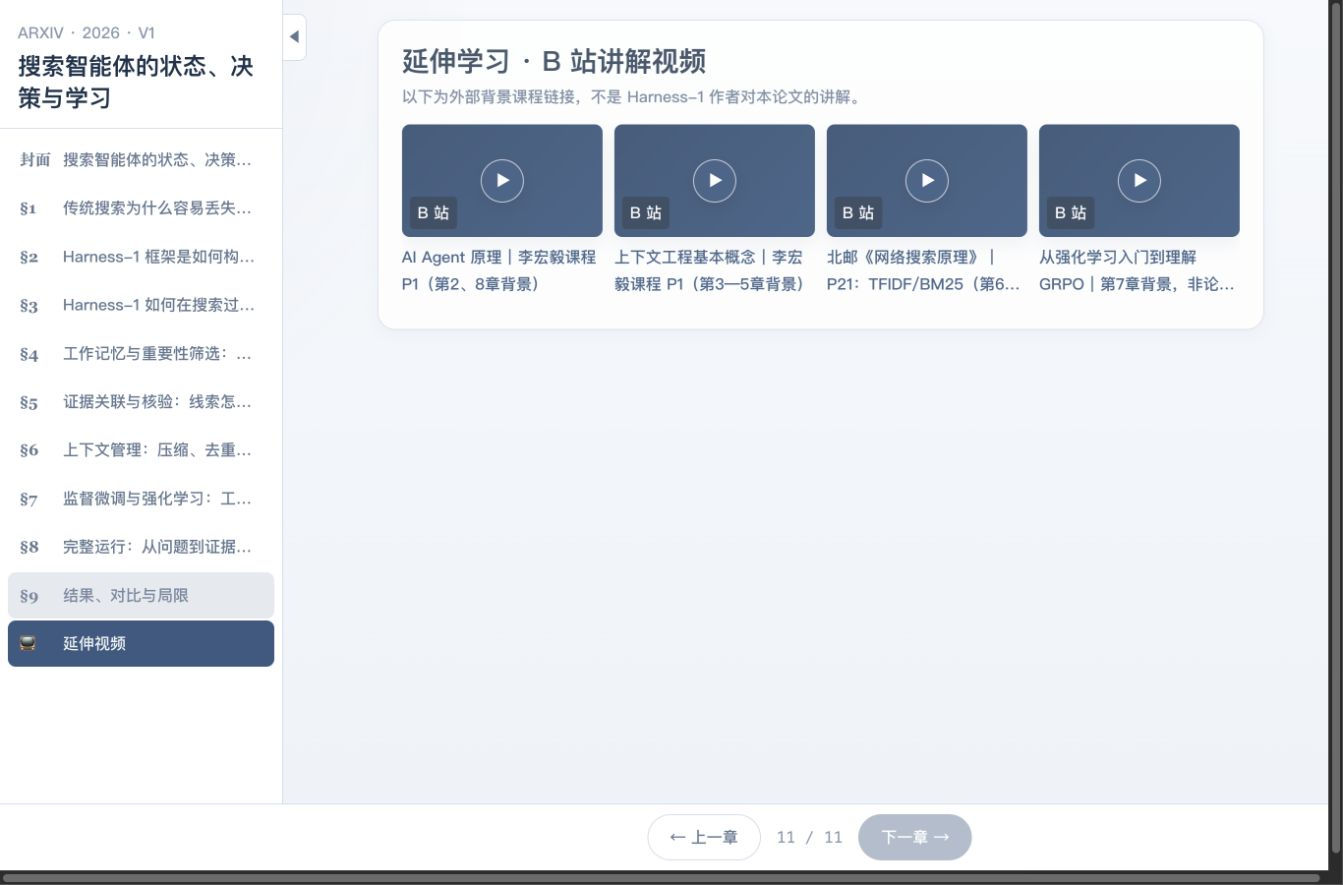
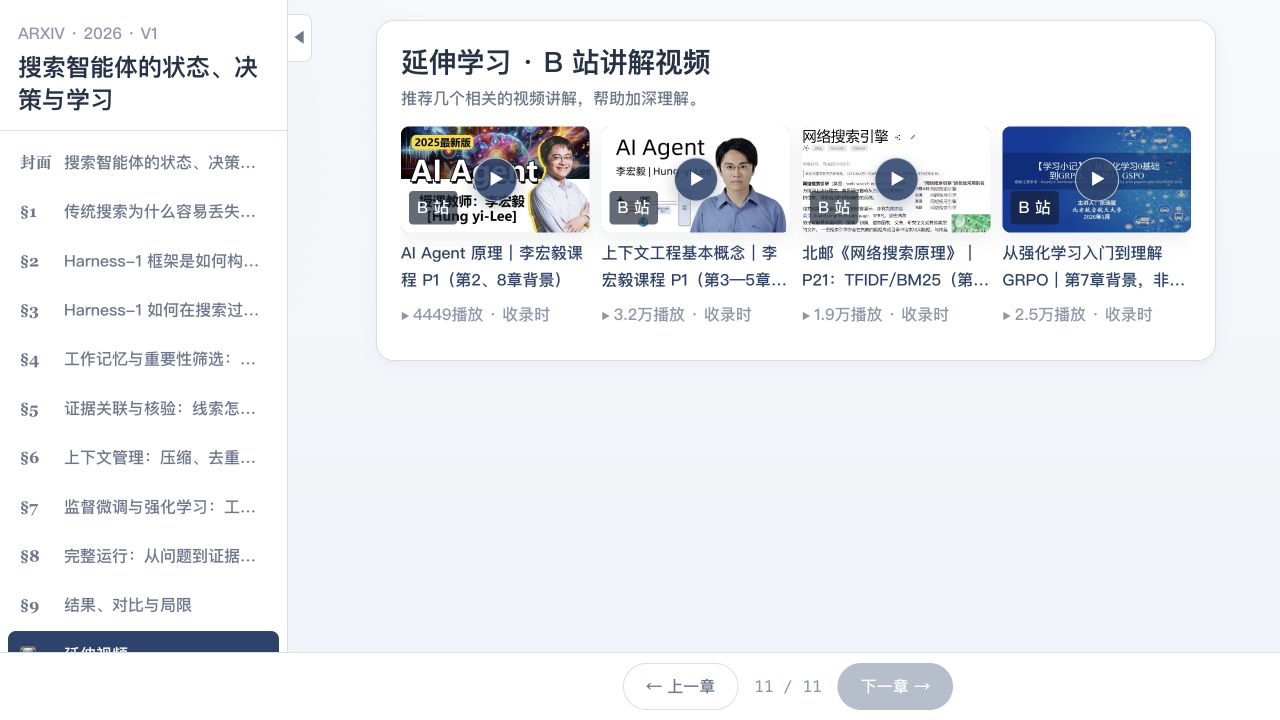
Restore linked Bilibili video cover cards

diff --git a/html_output/harness_1_reinforcement_learning_for_search_agents_with_state_externalizing_harnesses/jerr09110913/src/components/BiliVideos.tsx b/html_output/harness_1_reinforcement_learning_for_search_agents_with_state_externalizing_harnesses/jerr09110913/src/components/BiliVideos.tsx
@@ -1,24 +1,74 @@
-import React from 'react';
+import React, { useState, useCallback } from 'react';
 import type { BiliDef } from '../types';
+import { useBiliVideos, BiliCard } from '../lib/useBiliVideos';
 
-/** External reading links: no third-party cover images or video redistribution. */
+// Optional Bilibili recommendations. Renders whenever >=1 real BVID is passed.
+// Cards are ALWAYS shown from the static `it` data (title + optional baked-in cover),
+// so a failed runtime metadata fetch can never hide a video. The runtime fetch only
+// enriches with live views/duration and can supply a cover when none is baked in.
+// UI copy is Simplified Chinese.
 export function BiliVideos({ items }: { items: BiliDef[] }) {
+  const bvids = items.map((i) => i.bvid);
+  const [data, setData] = useState<Record<string, BiliCard | null>>({});
+  // Track per-card cover load failures so we can fall back to the gradient
+  // placeholder instead of showing a broken-image icon.
+  const [imgError, setImgError] = useState<Record<string, boolean>>({});
+
+  const onLoad = useCallback((bvid: string, d: BiliCard | null) => {
+    setData((prev) => ({ ...prev, [bvid]: d }));
+  }, []);
+  useBiliVideos(bvids, onLoad);
+
+  const real = items.filter((i) => i.bvid && i.bvid.startsWith('BV'));
+
   return (
     <section className="dl-related-section">
       <h3>延伸学习 · B 站讲解视频</h3>
-      <p>以下为外部背景课程链接，不是 Harness-1 作者对本论文的讲解。</p>
+      <p>推荐几个相关的视频讲解，帮助加深理解。</p>
       <div className="dl-video-strip">
-        {items.filter(it => it.bvid?.startsWith('BV')).map(it => (
-          <a key={it.bvid} className="dl-video-card"
-            href={`https://www.bilibili.com/video/${it.bvid}`}
-            target="_blank" rel="noopener noreferrer" data-bvid={it.bvid}>
-            <div className="dl-video-link-cover">
-              <div className="dl-video-play">▶</div>
-              <span className="dl-video-link-tag">B 站</span>
-            </div>
-            <strong>{it.title}</strong>
-          </a>
-        ))}
+        {real.map((it) => {
+          const d = data[it.bvid];
+          // Prefer a baked-in static cover, then the live fetch; else none.
+          const cover = it.cover || d?.cover;
+          const showCover = !!cover && !imgError[it.bvid];
+          return (
+            <a
+              key={it.bvid}
+              className="dl-video-card"
+              href={`https://www.bilibili.com/video/${it.bvid}`}
+              target="_blank"
+              rel="noopener"
+              data-bvid={it.bvid}
+            >
+              <div className={`dl-video-link-cover ${cover ? 'is-loaded' : 'is-loading'}`}>
+                {showCover ? (
+                  <img
+                    className="dl-video-cover-img"
+                    src={cover}
+                    alt={it.title}
+                    // Bilibili's cover CDN blocks requests that carry a foreign
+                    // Referer (hotlink protection -> 403). Sending no Referer lets
+                    // the image load on any host.
+                    referrerPolicy="no-referrer"
+                    loading="lazy"
+                    onError={() =>
+                      setImgError((prev) => ({ ...prev, [it.bvid]: true }))
+                    }
+                  />
+                ) : null}
+                <div className="dl-video-play">▶</div>
+                <span className="dl-video-link-tag">B 站</span>
+                {d?.duration ? <span className="dl-video-duration">{d.duration}</span> : null}
+              </div>
+              <strong>{it.title}</strong>
+              {(it.views || d?.views) ? (
+                <div className="dl-video-meta">
+                  <span className="views">{it.views || d?.views}</span>
+                </div>
+              ) : null}
+            </a>
+          );
+        })}
       </div>
     </section>
   );

diff --git a/html_output/harness_1_reinforcement_learning_for_search_agents_with_state_externalizing_harnesses/jerr09110913/src/data/tutorial.ts b/html_output/harness_1_reinforcement_learning_for_search_agents_with_state_externalizing_harnesses/jerr09110913/src/data/tutorial.ts
@@ -32,24 +32,28 @@ export const tutorial: TutorialData = {
       "bvid": "BV1VJsuzZE4Z",
       "title": "AI Agent 原理｜李宏毅课程 P1（第2、8章背景）",
       "reason": "了解动作、工具与观察循环。推荐合集 P1；这是通用背景课程，并非 Harness-1 作者对本论文的讲解。",
+      "cover": "https://i0.hdslb.com/bfs/archive/b8c1c1dff121608e127f413d83a44c47917b593b.jpg",
       "views": "4449播放 · 收录时"
     },
     {
       "bvid": "BV1DjLF6xEXM",
       "title": "上下文工程基本概念｜李宏毅课程 P1（第3—5章背景）",
       "reason": "补充 Context Engineering 的基本概念，帮助理解输入组织与外部状态；不能替代 Harness-1 的具体状态定义。",
+      "cover": "https://i2.hdslb.com/bfs/archive/5379f17bbda7c7ba680fe72527554a67d9ead629.jpg",
       "views": "3.2万播放 · 收录时"
     },
     {
       "bvid": "BV1zp4y1e7iN",
       "title": "北邮《网络搜索原理》｜P21：TFIDF/BM25（第6章背景）",
       "reason": "进入合集选择 P21“第11讲 TFIDF/BM25打分算法与布尔查询初步实现”。补充词频、稀有度与长度归一化，不代表论文的实际检索参数。",
+      "cover": "https://i2.hdslb.com/bfs/archive/29cd3136fb0f179a296c515316ee37ab5959a437.jpg",
       "views": "1.9万播放 · 收录时"
     },
     {
       "bvid": "BV1s16UB7Eop",
       "title": "从强化学习入门到理解 GRPO｜第7章背景，非论文 CISPO",
       "reason": "补充强化学习与组内比较的入门知识。视频讲 GRPO；Harness-1 使用 CISPO，不可将两者视为同一个实现。",
+      "cover": "https://i1.hdslb.com/bfs/archive/59fdd72a0bd45137462592d27cd28cd97087f5f6.jpg",
       "views": "2.5万播放 · 收录时"
     }
   ],

diff --git a/html_output/harness_1_reinforcement_learning_for_search_agents_with_state_externalizing_harnesses/jerr09110913/README.md b/html_output/harness_1_reinforcement_learning_for_search_agents_with_state_externalizing_harnesses/jerr09110913/README.md
@@ -81,14 +81,23 @@ node src/modules/model-audit.cjs
 
 ### 延伸视频
 
-仅提供以下公开视频页面的外部链接，不下载、嵌入或重新分发视频文件；提交版使用代码绘制的普通链接卡片，不使用第三方视频封面，也不请求封面接口。下列名称是教程中的推荐标签，原始标题、上传者与许可信息以链接页面为准。
+以下卡片链接到 B 站公开视频页面，不下载或重新分发视频文件。卡片封面通过 B 站图片 CDN 外链加载，图片未打包进本项目；标题、播放量及运行时补充信息来自推荐数据和平台接口。下列名称是教程中的推荐标签，原始标题、上传者与许可信息以链接页面为准。
 
 - [AI Agent 原理背景课程](https://www.bilibili.com/video/BV1VJsuzZE4Z)
 - [上下文工程背景课程](https://www.bilibili.com/video/BV1DjLF6xEXM)
 - [网络搜索、TFIDF/BM25 背景课程](https://www.bilibili.com/video/BV1zp4y1e7iN)
 - [强化学习与 GRPO 背景讲解](https://www.bilibili.com/video/BV1s16UB7Eop)；仅作背景，论文使用 CISPO，不能混同。
 
-视频不适用上述论文的 CC BY 4.0 许可。论文案例中的 Wikipedia URL 作为原文来源引用保留，项目未打包 Wikipedia 页面或其媒体文件。
+视频及其封面不适用上述论文的 CC BY 4.0 许可；目前未核实单独的封面转载授权，也不主张拥有这些素材的版权。保留封面作为指向原视频的推荐入口；外链加载方式不等于取得授权。
+
+封面来源（顺序与以上视频一致）：
+
+- BV1VJsuzZE4Z：https://i0.hdslb.com/bfs/archive/b8c1c1dff121608e127f413d83a44c47917b593b.jpg
+- BV1DjLF6xEXM：https://i2.hdslb.com/bfs/archive/5379f17bbda7c7ba680fe72527554a67d9ead629.jpg
+- BV1zp4y1e7iN：https://i2.hdslb.com/bfs/archive/29cd3136fb0f179a296c515316ee37ab5959a437.jpg
+- BV1s16UB7Eop：https://i1.hdslb.com/bfs/archive/59fdd72a0bd45137462592d27cd28cd97087f5f6.jpg
+
+论文案例中的 Wikipedia URL 作为原文来源引用保留，项目未打包 Wikipedia 页面或其媒体文件。
 
 ### 项目界面与截图
 

diff --git a/html_output/harness_1_reinforcement_learning_for_search_agents_with_state_externalizing_harnesses/jerr09110913/QA.md b/html_output/harness_1_reinforcement_learning_for_search_agents_with_state_externalizing_harnesses/jerr09110913/QA.md
@@ -99,7 +99,7 @@
 ## PR 提交前复核（2026-09-15）
 
 - 六张论文图片与 arXiv v1 原文件 SHA-256 一致，README 记录作者、逐图来源、修改情况和 CC BY 4.0 许可。
-- 延伸视频保留四条外链；不加载第三方封面，不分发视频。
+- 延伸视频按使用者最终选择恢复四张 B 站外链封面，保留原视频入口，不分发视频文件；README 记录封面 URL 与许可核实边界。
 - 浏览器 1366×900 逐章检查九章及视频页，未发现整页横向溢出或已完成加载的破损图片。
 - 浏览器 390×844 检查第2至9章及视频页，未发现整页横向溢出；第2章搜索/回看实际操作有正确反馈。
 - 使用者已明确确认：手机上检查最终版，显示、图片加载与主要交互正常；此前已确认人工论文核验和主要页面预览。
